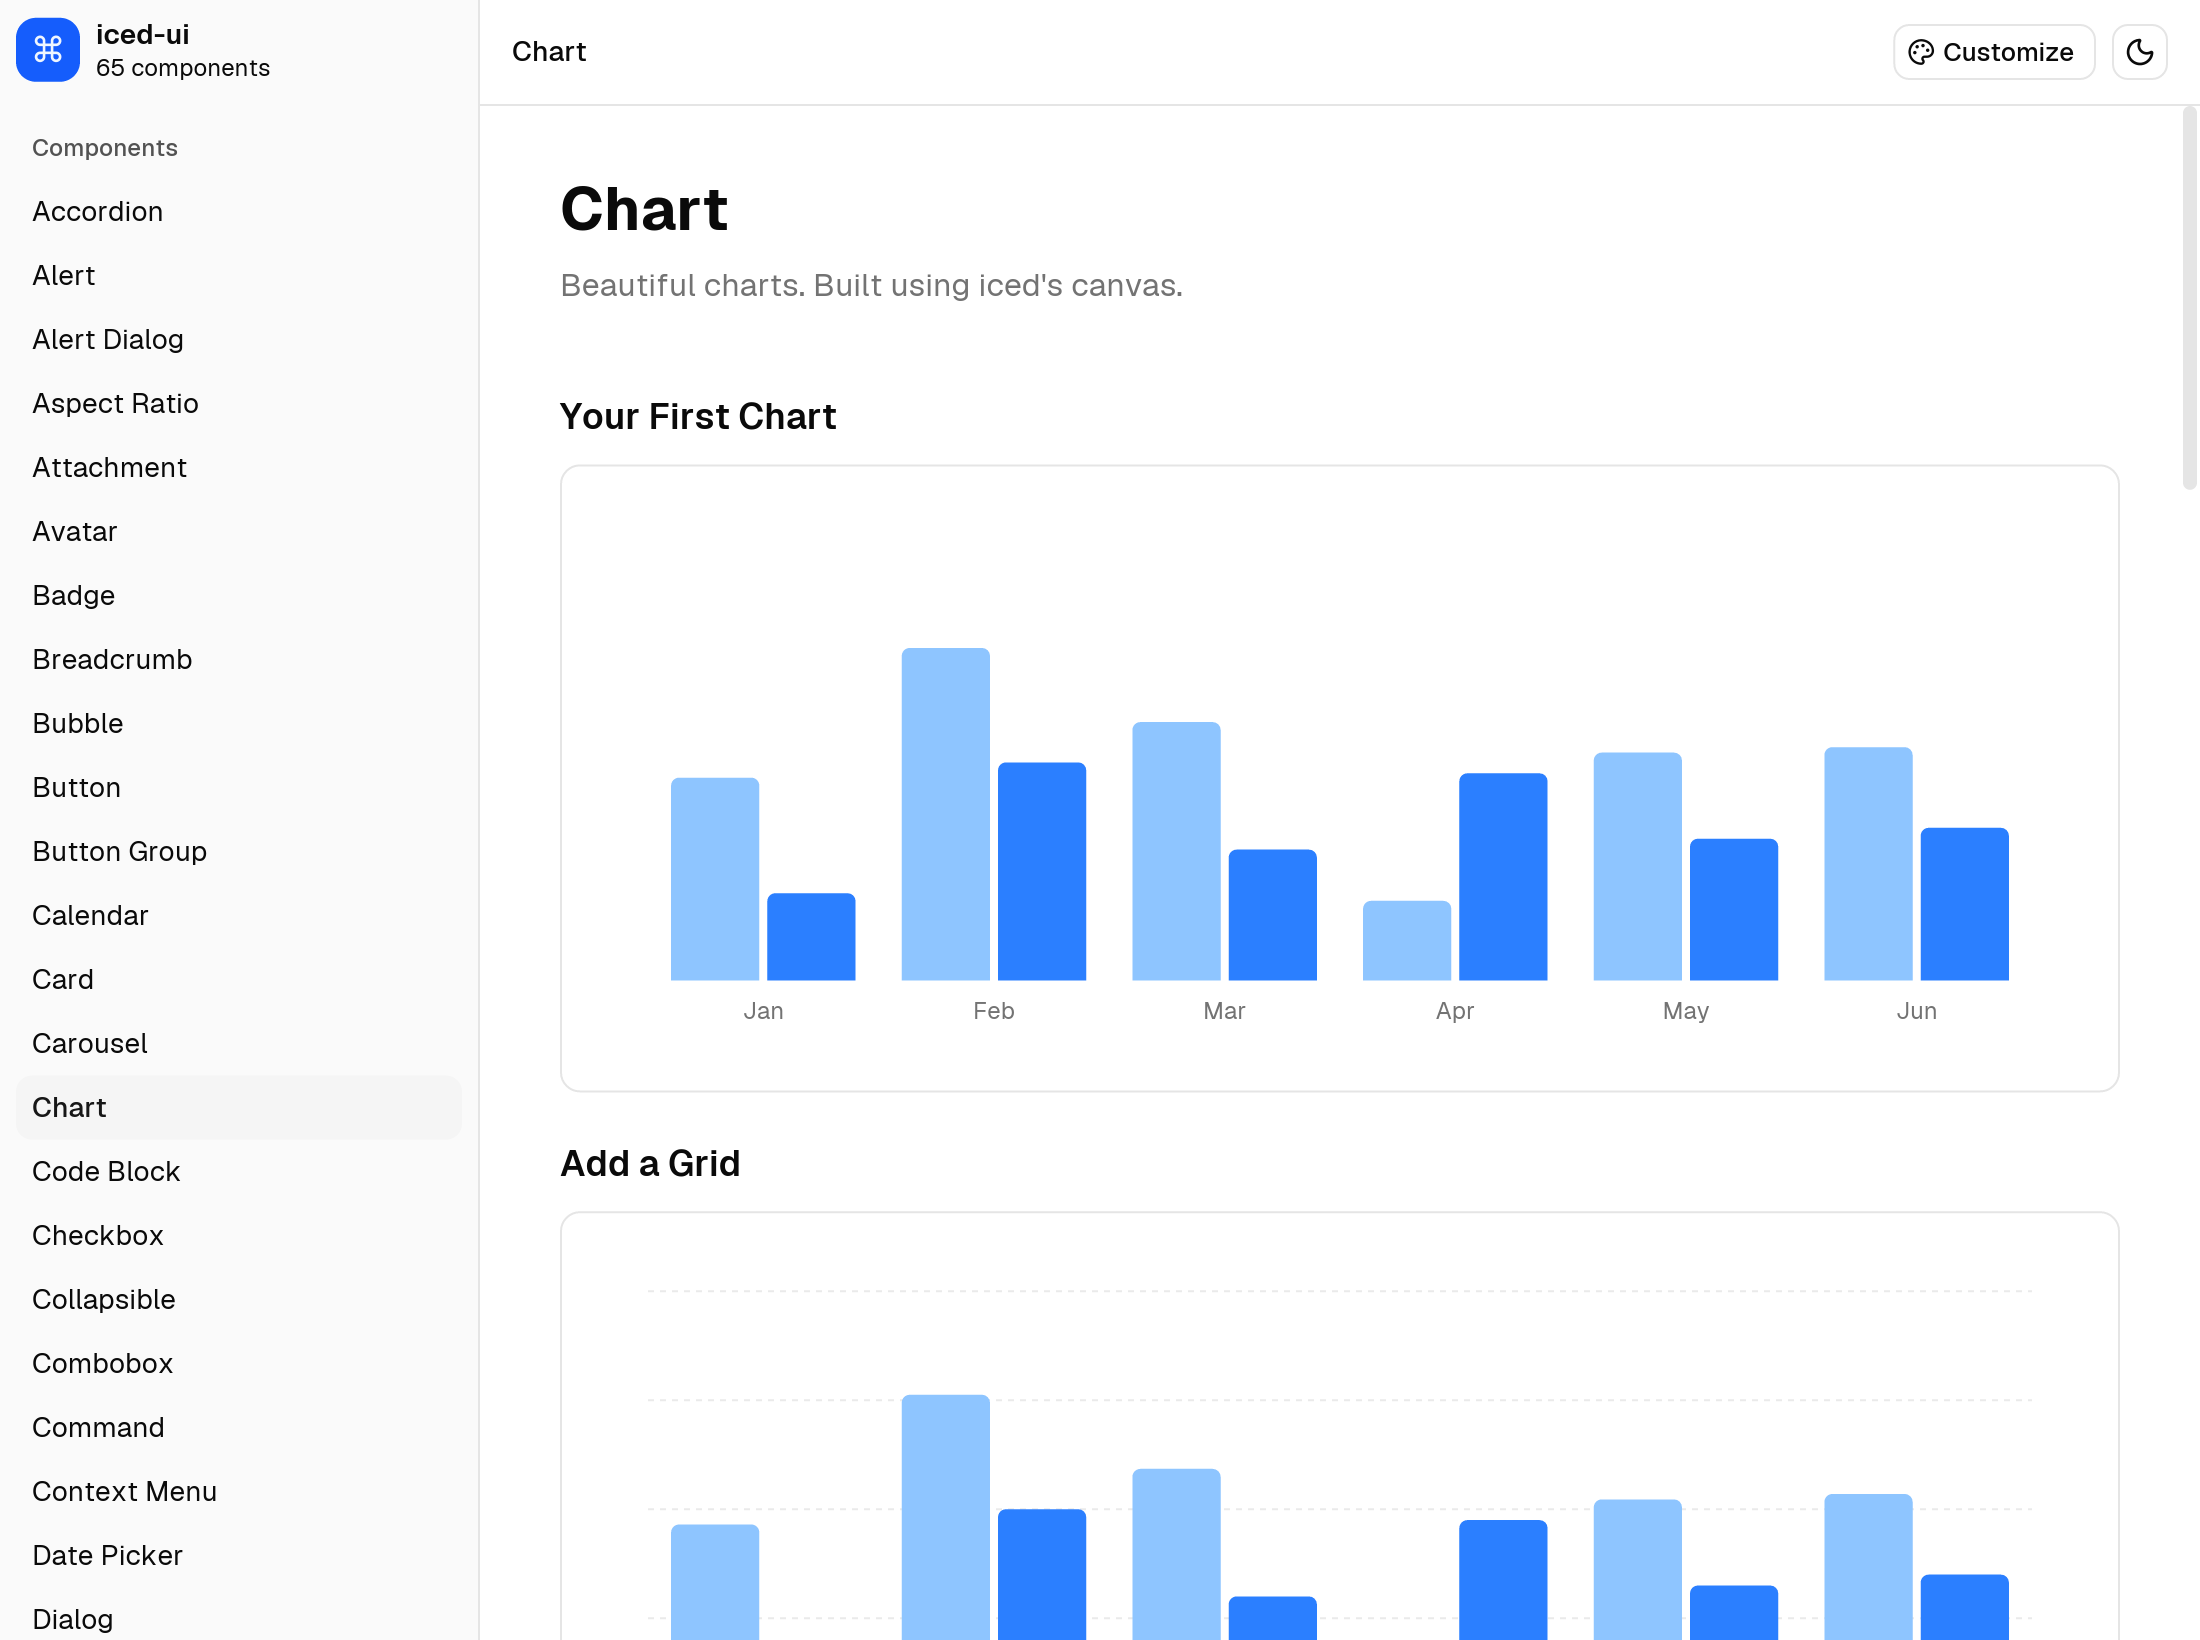
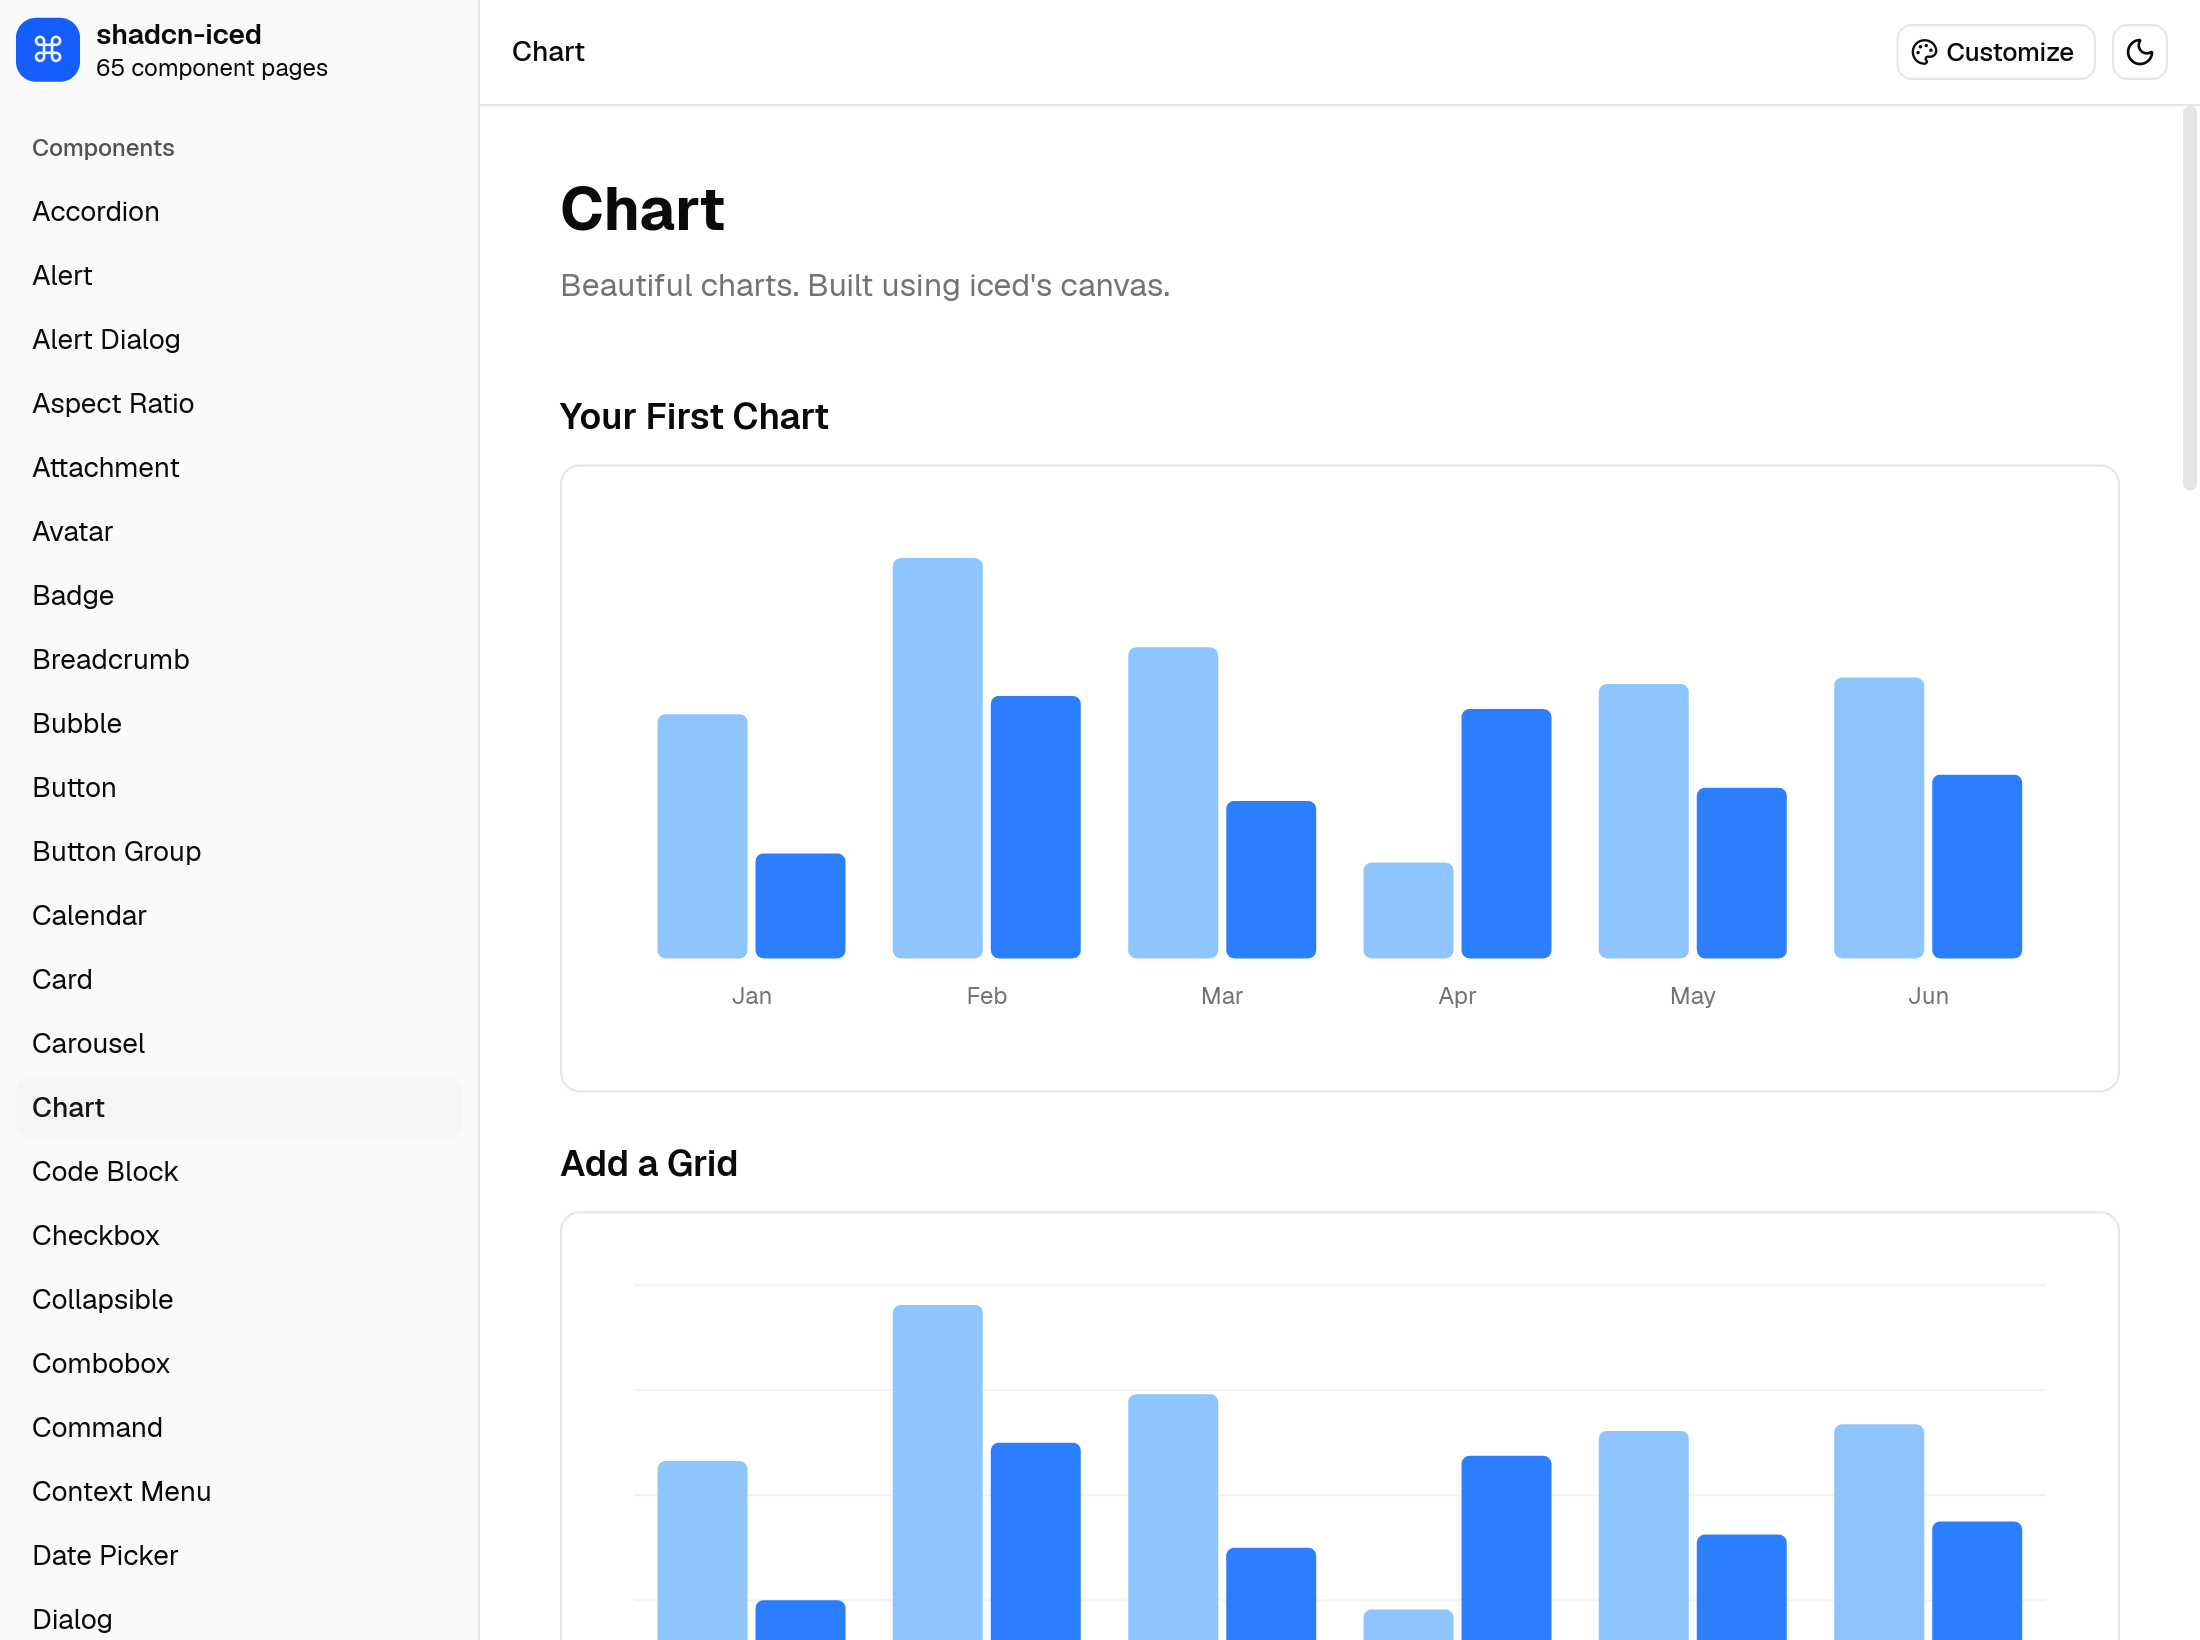
fix: prepare repository for public release (#29)

diff --git a/examples/gallery/src/lib.rs b/examples/gallery/src/lib.rs
@@ -183,7 +183,7 @@ impl Gallery {
                             text("shadcn-iced")
                                 .size(style::text::SM)
                                 .font(font::semibold()),
-                            text(format!("{} components", PAGES.len())).size(style::text::XS),
+                            text(format!("{} component pages", PAGES.len())).size(style::text::XS),
                         ],
                     ]
                     .spacing(8)

diff --git a/docs/architecture.md b/docs/architecture.md
@@ -109,5 +109,5 @@ Because `iced` is a native retained/immediate-mode GUI library rather than a bro
 - **Application vs. Widget State**: Following `iced`'s Elm architecture, application-level state—such as whether a `Dialog` is open, the selected value of a form control, or the visible month of a `Calendar`—is owned by your application state and updated via messages. Transient interaction state for `Popover`, `DropdownMenu`, `ContextMenu`, `Select`, `HoverCard`, `Tooltip`, `Collapsible`, and `Accordion` is managed internally by the widgets.
 - **Backdrop Blur**: `iced` does not support real-time backdrop blur filters; modal backdrops and translucent menus approximate the appearance using semi-transparent fills.
 - **Text Overflow and Highlighting**: Overflowing text is clipped rather than ellipsized, and `code_block` displays monospace code without built-in syntax highlighting.
-- **Keyboard Focus**: `iced` tracks keyboard focus primarily on text inputs, so focus rings are displayed on `input`, `input_group`, and `input_otp`. Open menus, selects, and command palettes handle arrow-key and <kbd>Enter</kbd>/<kbd>Esc</kbd> navigation directly.
+- **Keyboard Focus**: Text inputs and focusable controls, including checkboxes, switches, and toggles, display keyboard focus rings. Applications provide Tab traversal through iced's focus operations, as demonstrated by the conformance runner. Open menus, selects, and command palettes handle arrow-key and <kbd>Enter</kbd>/<kbd>Esc</kbd> navigation directly.
 - **React-Specific APIs**: `form` (React Hook Form integration) and `direction` have no equivalent; use `field`, `field_set`, and `field_separator` to structure forms.

diff --git a/docs/development.md b/docs/development.md
@@ -122,7 +122,7 @@ The website in `site/` is built with TanStack Start, Solid, Vite, and Tailwind C
 ### How Site Assets Are Generated
 
 1. **`pnpm data`** (`site/scripts/gen-data.mjs`): Runs `cargo run -p gallery --bin site_data` to locate every `example(...)` call in the gallery, extracts the corresponding Rust source snippets (including referenced imports and helpers) and component source files, and writes `site/src/data/components.json`.
-2. **`pnpm wasm`** (`site/scripts/build-wasm.mjs`): Compiles `examples/gallery-web` for `wasm32-unknown-unknown` using the `wasm` Cargo profile, generates bindings with `wasm-bindgen`, and optimizes the binary with `wasm-opt` into `site/public/wasm/`.
+2. **`pnpm wasm`** (`site/scripts/build-wasm.mjs`): Compiles `examples/gallery-web` for `wasm32-unknown-unknown` using the `wasm` Cargo profile, generates bindings with `wasm-bindgen`, and optimizes the binary with `wasm-opt` into `site/public/wasm/`. Build-machine paths are remapped before compilation, and the final binary is checked for unremapped prefixes before it can be deployed.
 
 ### Local Development Setup
 

diff --git a/THIRD_PARTY_NOTICES.md b/THIRD_PARTY_NOTICES.md
@@ -23,6 +23,14 @@ furnished to do so, subject to the following conditions:
 
 The above copyright notice and this permission notice shall be included in all
 copies or substantial portions of the Software.
+
+THE SOFTWARE IS PROVIDED "AS IS", WITHOUT WARRANTY OF ANY KIND, EXPRESS OR
+IMPLIED, INCLUDING BUT NOT LIMITED TO THE WARRANTIES OF MERCHANTABILITY,
+FITNESS FOR A PARTICULAR PURPOSE AND NONINFRINGEMENT. IN NO EVENT SHALL THE
+AUTHORS OR COPYRIGHT HOLDERS BE LIABLE FOR ANY CLAIM, DAMAGES OR OTHER
+LIABILITY, WHETHER IN AN ACTION OF CONTRACT, TORT OR OTHERWISE, ARISING FROM,
+OUT OF OR IN CONNECTION WITH THE SOFTWARE OR THE USE OR OTHER DEALINGS IN THE
+SOFTWARE.
 ```
 
 ## Inter

diff --git a/README.md b/README.md
@@ -2,6 +2,10 @@
 
 UI components for [iced](https://iced.rs), ported from [shadcn/ui](https://ui.shadcn.com).
 
+The initial crates.io release, `shadcn-iced` 0.0.0, contains documentation only,
+with no component implementation or dependencies. Use the Git dependencies below
+to try the components under development in this repository.
+
 `shadcn-iced` can be used as a standard Cargo dependency, or you can copy individual component source files into your project with the CLI and customize them directly:
 
 ```sh
